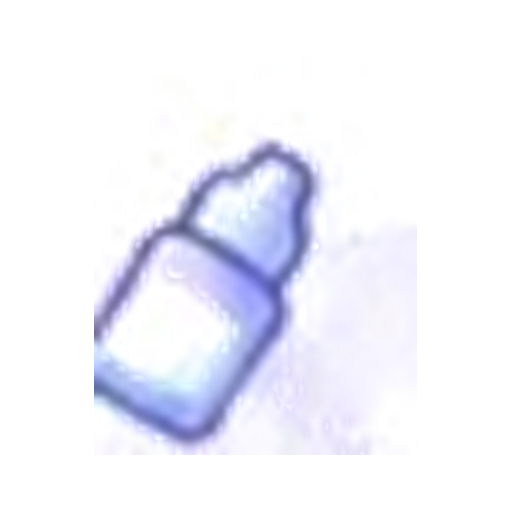
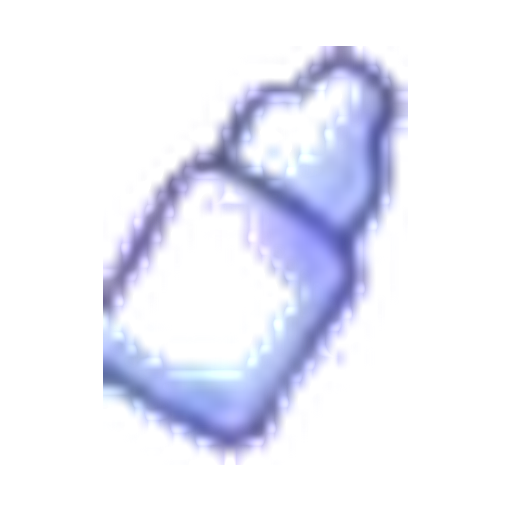
Add files via upload

Changed region(s): [[0.1562, 0.0625, 0.8125, 0.9062]]

diff --git a/index.html b/index.html
@@ -163,7 +163,7 @@ body{
 }
 .done-badge img{
   position:absolute;
-  width:34%;
+  width:42%;
   height:auto;
   left:-6%;
   top:-19%;
@@ -314,7 +314,7 @@ dialog::backdrop{background:rgba(30,42,88,.40)}
 
 <dialog id="dlg">
   <div class="popup-head">
-    <img class="popup-bottle" src="popup-bottle.png?v=25" alt="">
+    <img class="popup-bottle" src="popup-bottle.png?v=26" alt="">
     <span>안약 체크</span>
     <button class="popup-close" id="closeDlg" aria-label="닫기">×</button>
   </div>
@@ -407,7 +407,7 @@ function render(){
     if(rec && rec.status==="yes"){
       cell.classList.add("done");
       const badge=document.createElement("div"); badge.className="done-badge";
-      const img=document.createElement("img"); img.src="bottle-mini.png?v=25"; img.alt="";
+      const img=document.createElement("img"); img.src="bottle-mini.png?v=26"; img.alt="";
       badge.appendChild(img); cell.appendChild(badge);
       core.appendChild(num);
       const tm=document.createElement("div"); tm.className="time"; tm.textContent=rec.time||"";

diff --git a/sw.js b/sw.js
@@ -1,5 +1,5 @@
-const C="eyedrop-v25";
-const A=["./","./index.html","./manifest.webmanifest","./background-target.jpg?v=25","./titlebar.jpg?v=25","./bottle-mini.png?v=25","./popup-bottle.png?v=25","./icon.png"];
+const C="eyedrop-v26";
+const A=["./","./index.html","./manifest.webmanifest","./background-target.jpg?v=26","./titlebar.jpg?v=26","./bottle-mini.png?v=26","./popup-bottle.png?v=26","./icon.png"];
 self.addEventListener("install",e=>{self.skipWaiting();e.waitUntil(caches.open(C).then(c=>c.addAll(A)))});
 self.addEventListener("activate",e=>e.waitUntil(caches.keys().then(keys=>Promise.all(keys.filter(k=>k!==C).map(k=>caches.delete(k)))).then(()=>self.clients.claim())));
 self.addEventListener("fetch",e=>{e.respondWith(fetch(e.request,{cache:"no-store"}).then(r=>{const x=r.clone();caches.open(C).then(c=>c.put(e.request,x));return r}).catch(()=>caches.match(e.request)))});
